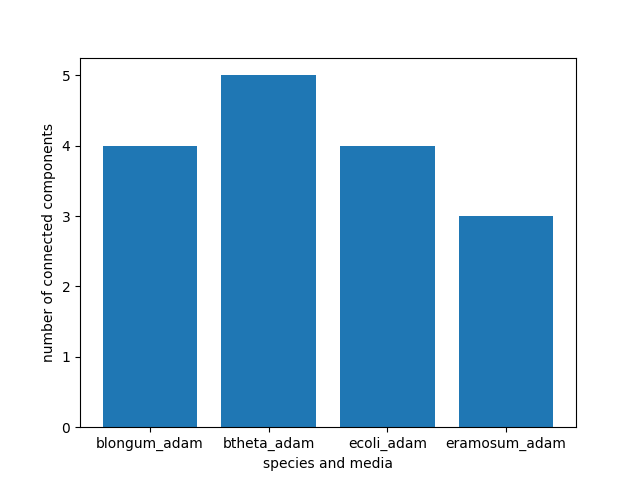
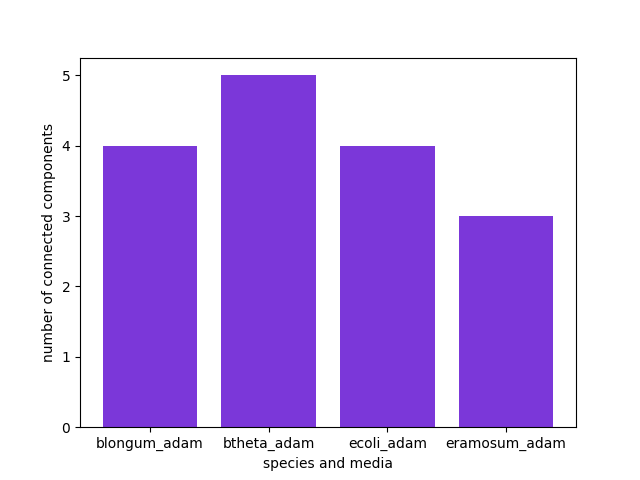
change plot color

diff --git a/src/wp3.py b/src/wp3.py
@@ -7,7 +7,7 @@ import statistics
 import numpy as np
 
 from wp1 import draw_graph, _search_edges
-from constants import SEPCIES_MEDIUM_COMBINATIONS, AMINO_ACIDS
+from constants import SEPCIES_MEDIUM_COMBINATIONS, AMINO_ACIDS, LILA
 from custom_types import SpeciesMediumCombination
 
 
@@ -140,7 +140,7 @@ def draw_graph(G: nx.Graph, output = ""):
     plt.clf()
 
 def plot_no_of_components(no_connected_comp: dict[SpeciesMediumCombination, int]):
-    plt.bar(no_connected_comp.keys(), no_connected_comp.values())
+    plt.bar(no_connected_comp.keys(), no_connected_comp.values(), color=LILA[3])
     plt.xlabel("species and media")
     plt.ylabel("number of connected components")
     plt.yticks(np.arange(0, 6, step=1))
@@ -155,9 +155,9 @@ def plot_component_size(connected_comp_sizes: dict[SpeciesMediumCombination, dic
 
     x_axis = np.arange(len(connected_comp_sizes.keys()))
     #plt.bar(x_axis - 0.4, min_values, 0.2, label="min")
-    plt.bar(x_axis - 0.3, max_values, 0.3, label="max", color='#7B37D9')
-    plt.bar(x_axis, avg_values, 0.3, label="average", color='#AC25C7')
-    plt.bar(x_axis + 0.3, median_values, 0.3, label="median", color='#D937B0')
+    plt.bar(x_axis - 0.3, max_values, 0.3, label="max", color=LILA[3])
+    plt.bar(x_axis, avg_values, 0.3, label="average", color=LILA[2])
+    plt.bar(x_axis + 0.3, median_values, 0.3, label="median", color=LILA[1])
 
     plt.xlabel("species and media")
     plt.ylabel("component size")
